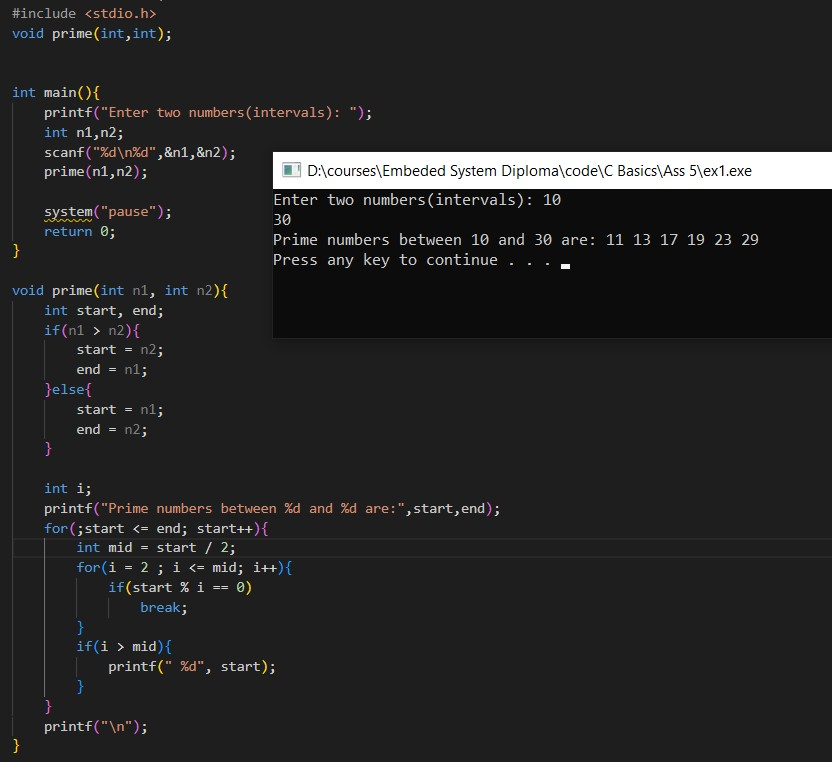
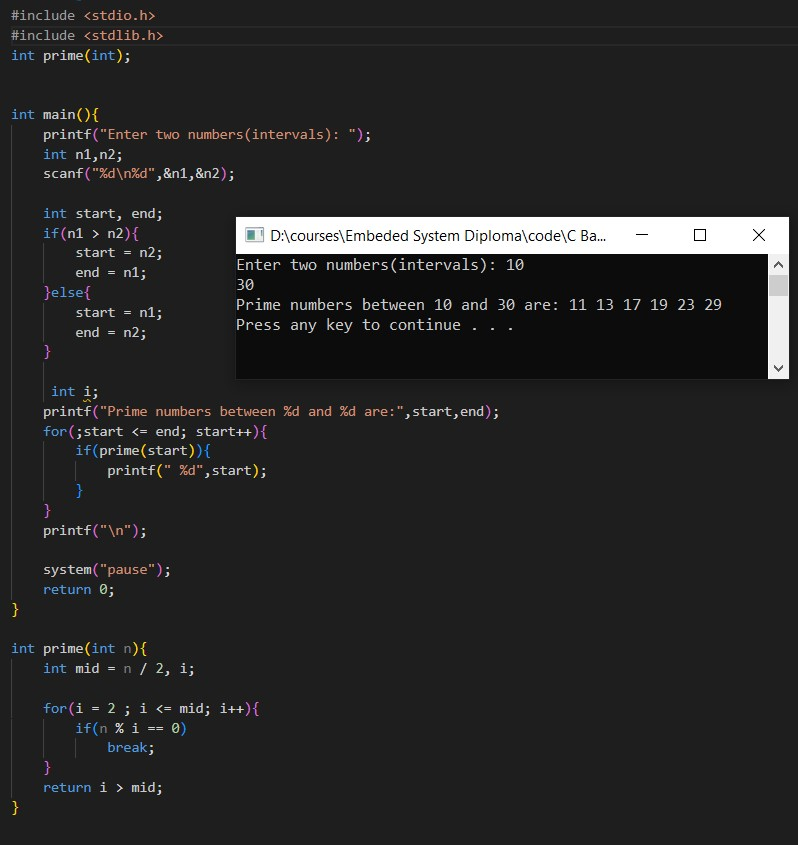
ex1 solution improvement

diff --git a/Unit2 _C programming/03_C functions/assignment/ex1/main.c b/Unit2 _C programming/03_C functions/assignment/ex1/main.c
@@ -1,18 +1,13 @@
 #include <stdio.h>
-void prime(int,int);
+#include <stdlib.h>
+int prime(int);
 
 
 int main(){
     printf("Enter two numbers(intervals): ");
     int n1,n2;
     scanf("%d\n%d",&n1,&n2);
-    prime(n1,n2);
 
-    system("pause");
-    return 0;
-}
-
-void prime(int n1, int n2){
     int start, end;
     if(n1 > n2){
         start = n2;
@@ -21,18 +16,26 @@ void prime(int n1, int n2){
         start = n1;
         end = n2;
     }
-    
-    int i;
+
+     int i;
     printf("Prime numbers between %d and %d are:",start,end);
     for(;start <= end; start++){
-        int mid = start / 2;
-        for(i = 2 ; i <= mid; i++){
-            if(start % i == 0)
-                break;
-        }
-        if(i > mid){
-            printf(" %d", start);
+        if(prime(start)){
+            printf(" %d",start);
         }
     }
     printf("\n");
+
+    system("pause");
+    return 0;
+}
+
+int prime(int n){
+    int mid = n / 2, i;
+    
+    for(i = 2 ; i <= mid; i++){
+        if(n % i == 0)
+            break;
+    }
+    return i > mid;
 }
